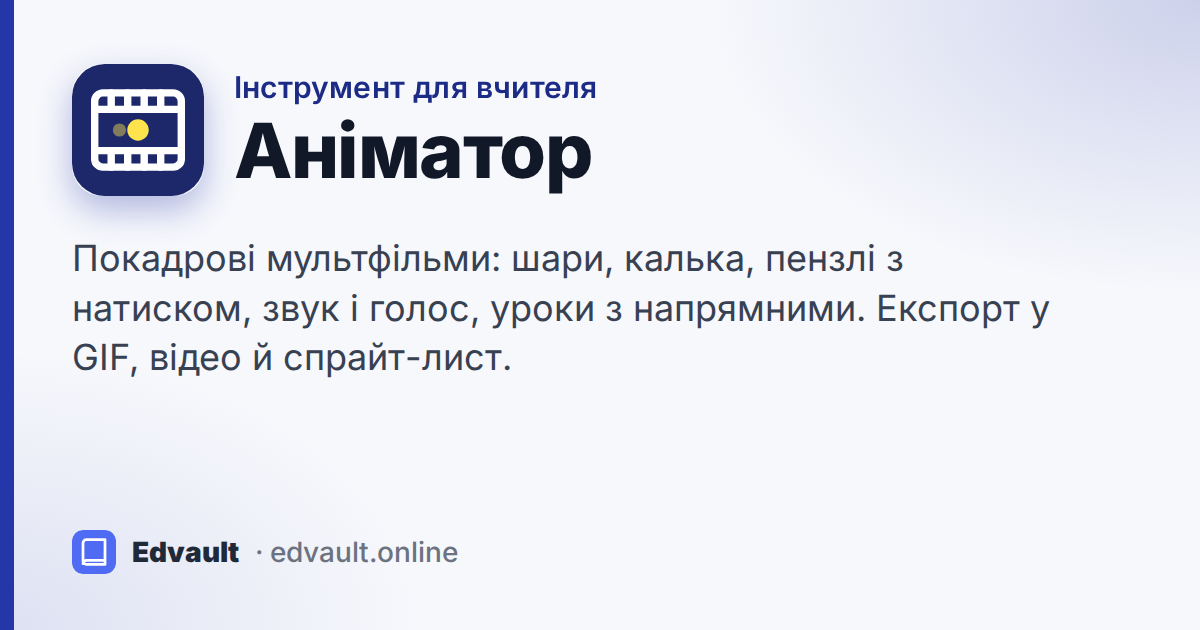
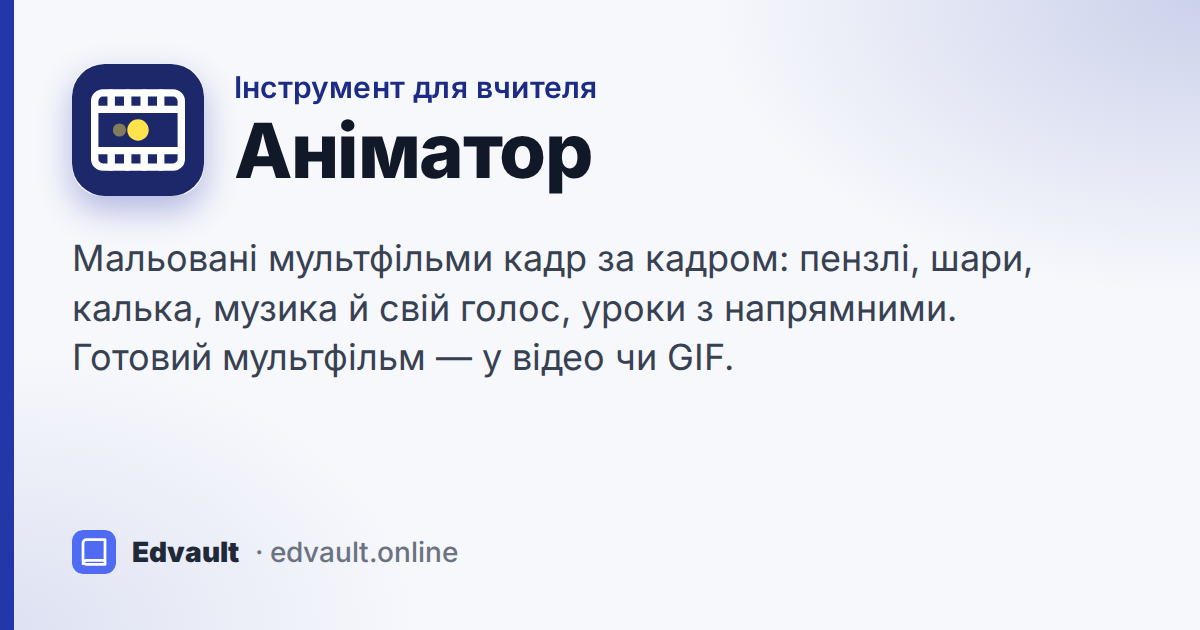
Аніматор: опис у каталозі про мультфільми, без спрайт-листа
Щоб у розділі «Дизайн» аніматор не плутали зі спрайт-редактором.
Оновлено OG-картку й теги сторінки.

Claude-Session: https://claude.ai/code/session_01A9JceW55buxDsbUJb8C2n4

Changed region(s): [[0.0617, 0.3921, 0.8942, 0.5127], [0.0617, 0.5429, 0.6167, 0.6032]]

diff --git a/animator.html b/animator.html
@@ -25,7 +25,7 @@
 <meta property="og:site_name" content="Edvault">
 <meta property="og:locale" content="uk_UA">
 <meta property="og:title" content="Аніматор · Edvault">
-<meta property="og:description" content="Покадрові мультфільми: шари, калька, пензлі з натиском, звук і голос, уроки з напрямними. Експорт у GIF, відео й спрайт-лист.">
+<meta property="og:description" content="Мальовані мультфільми кадр за кадром: пензлі, шари, калька, музика й свій голос, уроки з напрямними. Готовий мультфільм — у відео чи GIF.">
 <meta property="og:url" content="https://www.edvault.online/tools/animator">
 <meta property="og:image" content="https://www.edvault.online/assets/og/tool-animator.png">
 <meta property="og:image:width" content="1200">
